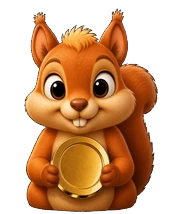
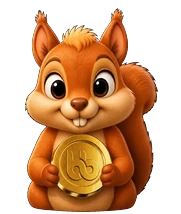
upgrade

diff --git a/game.js b/game.js
@@ -96,7 +96,7 @@ const Atlas = {
     frameImages: {},
     async load() {
         if (!this.frames) {
-            const response = await fetch('assets/atlases/atlas.json');
+            const response = await fetch('assets/atlases/atlas.json?v=coin-bb');
             const data = await response.json();
             this.size = data.size;
             this.urls = data.atlases;
@@ -119,7 +119,7 @@ const Atlas = {
                     resolve();
                 };
                 img.onerror = reject;
-                img.src = `assets/frames/${name}.webp?v=joy`;
+                img.src = `assets/frames/${name}.webp?v=coin-bb`;
             })));
         }
     },
@@ -531,7 +531,7 @@ class SquirrelPlayer {
 
     _setFrame(name) {
         if (USE_SMALL_FRAMES) {
-            const url = `assets/frames/${name}.webp?v=joy`;
+            const url = `assets/frames/${name}.webp?v=coin-bb`;
             if (this._frameUrl !== url) {
                 this._frameUrl = url;
                 this.sprite.style.backgroundImage = `url("${url}")`;

diff --git a/style.css b/style.css
@@ -132,7 +132,7 @@ html, body {
     width: 28px;
     height: 28px;
     flex-shrink: 0;
-    background: url("assets/textures/brand-coin-sm.webp") center / contain no-repeat;
+    background: url("assets/textures/brand-coin-sm.webp?v=bb") center / contain no-repeat;
 }
 
 #stash-fill {
@@ -256,7 +256,7 @@ html, body {
     top: 0;
     width: 72px;
     height: 72px;
-    background: url("assets/textures/brand-coin.webp") center / contain no-repeat;
+    background: url("assets/textures/brand-coin.webp?v=bb") center / contain no-repeat;
     opacity: 0;
     will-change: transform, opacity;
 }

diff --git a/index.html b/index.html
@@ -4,7 +4,7 @@
     <meta charset="UTF-8">
     <meta name="viewport" content="width=device-width, initial-scale=1.0, maximum-scale=1.0, user-scalable=no, viewport-fit=cover">
     <title>Помоги белке</title>
-    <link rel="stylesheet" href="style.css?v=modes-rules">
+    <link rel="stylesheet" href="style.css?v=coin-bb">
 </head>
 <body>
     <div id="game-container">
@@ -83,6 +83,6 @@
             </div>
         </div>
     </div>
-    <script src="game.js?v=hide-per-squirrel"></script>
+    <script src="game.js?v=coin-bb"></script>
 </body>
 </html>
